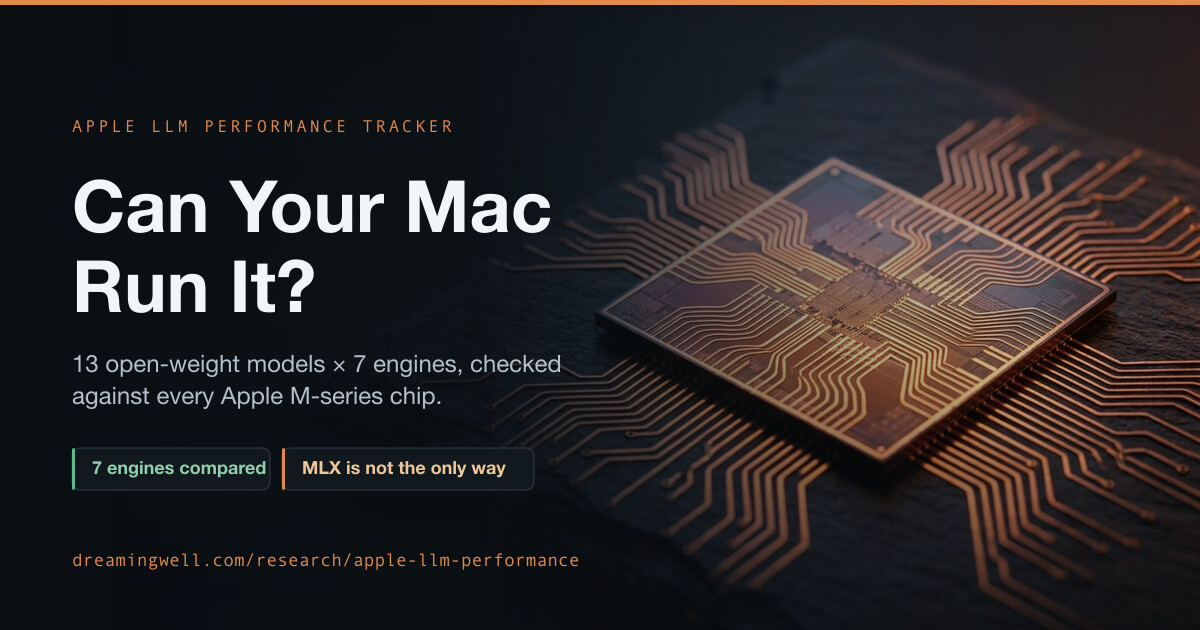
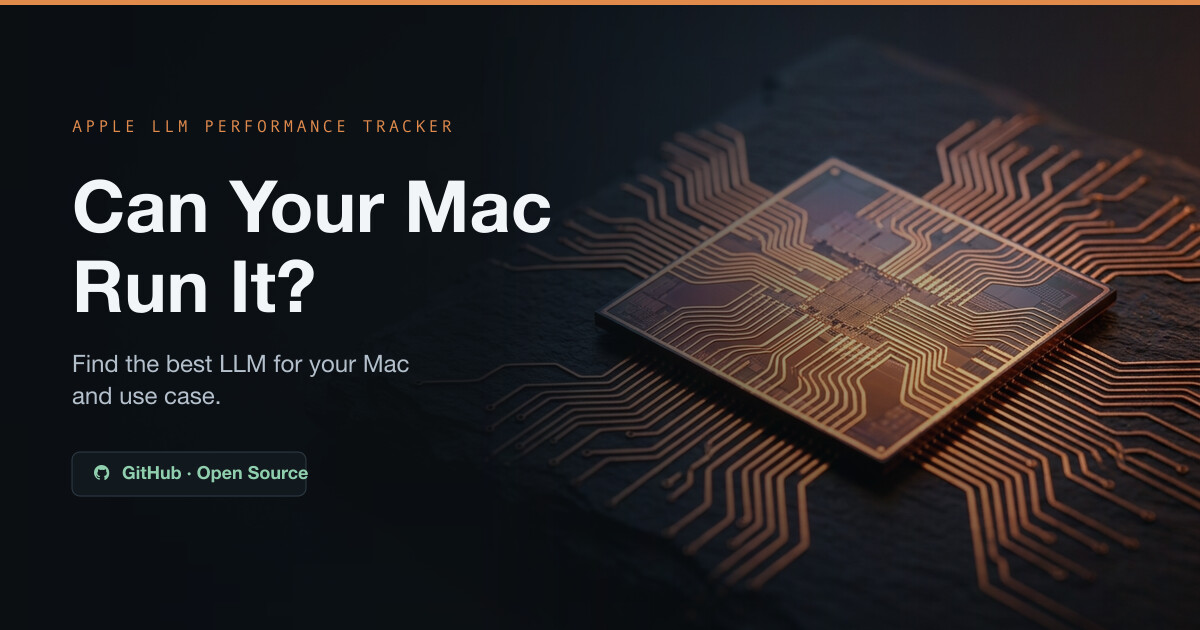
Make the Pages site canonical, add a GitHub badge, simplify the card
The repo is the home now, so the page's canonical, og:url and og:image point at
the Pages site rather than the dreamingwell.com mirror, and the header carries an
"Open source" badge linking back here. Both older dreamingwell.com routes
forward here in a single hop via tracker/make_redirect.py, carrying the query
string so shared deep links keep their cluster and use-case selections.

The social card no longer states model or engine counts - those change whenever a
model is added, and a card is cached far longer than it takes for them to go
stale. It now says what the page is for, and the URL is replaced by a GitHub
open-source badge.

Changed region(s): [[0.0617, 0.5429, 0.4625, 0.6635], [0.0617, 0.6937, 0.4317, 0.8143], [0.0617, 0.8746, 0.4933, 0.9048]]

diff --git a/tracker/render_status.py b/tracker/render_status.py
@@ -644,8 +644,8 @@ def render():
     doc = TEMPLATE.format(now=now, now_iso=now_iso, usecases=usecases, bands=bands,
                           cards="".join(cards), index=index_rows(rows),
                           cross=cross_tabs(rows, releases))
-    return doc.replace("/research/apple-llm-performance/card.jpg",
-                       "/research/apple-llm-performance/" + card_name())
+    return doc.replace("/apple-llm-performance/card.jpg",
+                       "/apple-llm-performance/" + card_name())
 
 
 TEMPLATE = """<title>Apple LLM Performance Tracker</title>
@@ -653,20 +653,20 @@ TEMPLATE = """<title>Apple LLM Performance Tracker</title>
 <meta name="description" content="Open weight AI models and their Apple M-series compatibility.">
 <meta property="og:type" content="website">
 <meta property="og:site_name" content="DreamingWell">
-<meta property="og:url" content="https://dreamingwell.com/research/apple-llm-performance/">
+<meta property="og:url" content="https://dreamingwell.github.io/apple-llm-performance/">
 <meta property="og:title" content="Apple LLM Performance Tracker">
 <meta property="og:description" content="Open weight AI models and their Apple M-series compatibility.">
-<meta property="og:image" content="https://dreamingwell.com/research/apple-llm-performance/card.jpg">
+<meta property="og:image" content="https://dreamingwell.github.io/apple-llm-performance/card.jpg">
 <meta property="og:image:type" content="image/jpeg">
 <meta property="og:image:width" content="1200">
 <meta property="og:image:height" content="630">
-<meta property="og:image:alt" content="Dark card over a glowing Apple Silicon die reading Can Your Mac Run It? - 13 open-weight AI models across 7 inference engines, checked against every Apple M-series chip. MLX is not the only way.">
+<meta property="og:image:alt" content="Dark card over a glowing Apple Silicon die reading Can Your Mac Run It? - find the best LLM for your Mac and use case. Open source on GitHub.">
 <meta name="twitter:card" content="summary_large_image">
 <meta name="twitter:title" content="Apple LLM Performance Tracker">
 <meta name="twitter:description" content="Open weight AI models and their Apple M-series compatibility.">
-<meta name="twitter:image" content="https://dreamingwell.com/research/apple-llm-performance/card.jpg">
-<meta name="twitter:image:alt" content="Dark card over a glowing Apple Silicon die reading Can Your Mac Run It? - 13 open-weight AI models across 7 inference engines, checked against every Apple M-series chip. MLX is not the only way.">
-<link rel="canonical" href="https://dreamingwell.com/research/apple-llm-performance/">
+<meta name="twitter:image" content="https://dreamingwell.github.io/apple-llm-performance/card.jpg">
+<meta name="twitter:image:alt" content="Dark card over a glowing Apple Silicon die reading Can Your Mac Run It? - find the best LLM for your Mac and use case. Open source on GitHub.">
+<link rel="canonical" href="https://dreamingwell.github.io/apple-llm-performance/">
 <link rel="preconnect" href="https://fonts.googleapis.com">
 <link rel="preconnect" href="https://fonts.gstatic.com" crossorigin>
 <link rel="stylesheet" href="https://fonts.googleapis.com/css2?family=IBM+Plex+Mono:wght@400;500;600&family=IBM+Plex+Sans:wght@400;500;600;700&display=swap">
@@ -873,6 +873,14 @@ TEMPLATE = """<title>Apple LLM Performance Tracker</title>
   .model-fit {{ margin: 0; font-family: "IBM Plex Mono", ui-monospace, monospace;
     font-size: .8rem; color: var(--ink-2); }}
   .model-fit.toolarge {{ color: var(--critical); }}
+  header {{ position: relative; }}
+  .gh {{ position: absolute; top: 0; right: 0; display: inline-flex; align-items: center;
+    gap: .4rem; text-decoration: none; color: var(--ink-2);
+    border: 1px solid var(--line); border-radius: 999px; padding: .3rem .7rem .3rem .6rem;
+    background: var(--surface); font-size: .78rem; font-weight: 500; }}
+  .gh:hover {{ color: var(--ink); border-color: var(--accent); }}
+  .gh svg {{ flex: none; }}
+  @media (max-width: 620px) {{ header {{ padding-top: 2.2rem; }} }}
   .sub-stamp {{ color: var(--muted); white-space: nowrap; }}
   .ix-eng {{ font-family: "IBM Plex Mono", ui-monospace, monospace; font-size: .72rem;
     color: var(--muted); white-space: nowrap; }}
@@ -1028,6 +1036,11 @@ TEMPLATE = """<title>Apple LLM Performance Tracker</title>
 
 <div class="wrap">
   <header>
+    <a class="gh" href="https://github.com/dreamingwell/apple-llm-performance"
+       target="_blank" rel="noopener" aria-label="Open source on GitHub">
+      <svg viewBox="0 0 16 16" width="15" height="15" aria-hidden="true" focusable="false"><path fill="currentColor" d="M8 0C3.58 0 0 3.58 0 8c0 3.54 2.29 6.53 5.47 7.59.4.07.55-.17.55-.38 0-.19-.01-.82-.01-1.49-2.01.37-2.53-.49-2.69-.94-.09-.23-.48-.94-.82-1.13-.28-.15-.68-.52-.01-.53.63-.01 1.08.58 1.23.82.72 1.21 1.87.87 2.33.66.07-.52.28-.87.51-1.07-1.78-.2-2.98-.88-2.98-2.9 0-.83.3-1.51.79-2.04-.08-.2-.35-1 .08-2.07 0 0 .65-.2 2.13.79a7.2 7.2 0 0 1 1.94-.26c.66 0 1.32.09 1.94.26 1.48-1 2.13-.79 2.13-.79.43 1.07.16 1.87.08 2.07.49.53.79 1.21.79 2.04 0 2.03-1.21 2.7-2.99 2.9.31.27.58.79.58 1.6 0 1.15-.01 2.09-.01 2.38 0 .21.15.46.55.38A7.99 7.99 0 0 0 16 8c0-4.42-3.58-8-8-8Z"/></svg>
+      <span>Open source</span>
+    </a>
     <span class="eyebrow">Top Tier Open Weight Models on Apple Silicon</span>
     <h1>Apple LLM Performance Tracker</h1>
     <p class="sub">Select your Mac CPU model, RAM, and machine count below. Then view what AI models

diff --git a/tracker/make_redirect.py b/tracker/make_redirect.py
@@ -1,0 +1,100 @@
+#!/usr/bin/env python3
+"""Emit a forwarding stub for a route that used to serve the tracker.
+
+    python3 tracker/make_redirect.py --from research/mlx-models [--card card-x.jpg]
+
+The canonical home is the GitHub Pages site. Two older addresses on
+dreamingwell.com still receive traffic and always will - `/research/mlx-models/`
+is the URL the original Reddit post used - so each serves a stub instead of a
+copy of the page.
+
+GitHub Pages cannot issue a 301, so the stub does the job four ways: a meta
+refresh for scrapers and no-JS clients, `rel=canonical` so search engines
+consolidate, Open Graph tags so a link preview still resolves, and a script that
+carries the query string across. That last part matters: the tracker encodes the
+selected chip, memory, machine count and use case in the query string, so
+dropping it would break every deep link anyone has shared.
+
+Every old route forwards straight to the Pages site rather than chaining through
+the other old route - one hop, not two.
+"""
+import argparse
+
+TARGET = "https://dreamingwell.github.io/apple-llm-performance/"
+TITLE = "Apple LLM Performance Tracker"
+DESC = "Open weight AI models and their Apple M-series compatibility."
+
+HTML = """<!doctype html>
+<html lang="en">
+<head>
+<meta charset="utf-8">
+<meta name="viewport" content="width=device-width, initial-scale=1">
+<title>{title}</title>
+<link rel="canonical" href="{target}">
+<meta http-equiv="refresh" content="0; url={target}">
+<meta name="description" content="{desc}">
+<meta property="og:type" content="website">
+<meta property="og:site_name" content="DreamingWell">
+<meta property="og:url" content="{target}">
+<meta property="og:title" content="{title}">
+<meta property="og:description" content="{desc}">
+<meta property="og:image" content="{target}{card}">
+<meta property="og:image:type" content="image/jpeg">
+<meta property="og:image:width" content="1200">
+<meta property="og:image:height" content="630">
+<meta name="twitter:card" content="summary_large_image">
+<meta name="twitter:title" content="{title}">
+<meta name="twitter:description" content="{desc}">
+<meta name="twitter:image" content="{target}{card}">
+<style>
+  :root {{ color-scheme: light dark; }}
+  body {{ margin: 0; min-height: 100vh; display: grid; place-items: center;
+    font: 400 1rem/1.6 "IBM Plex Sans", system-ui, -apple-system, sans-serif;
+    background: #eef1f5; color: #141a20; padding: 2rem; text-align: center; }}
+  .eyebrow {{ font-family: "IBM Plex Mono", ui-monospace, monospace; font-size: .7rem;
+    letter-spacing: .14em; text-transform: uppercase; color: #a85a26; }}
+  h1 {{ font-size: 1.4rem; margin: .6rem 0 .4rem; letter-spacing: -.02em; }}
+  p {{ margin: .3rem 0; }}
+  .muted {{ color: #5f6b78; font-size: .88rem; max-width: 34rem; }}
+  a {{ color: #a85a26; }}
+  @media (prefers-color-scheme: dark) {{
+    body {{ background: #0e1216; color: #e3e8ee; }}
+    .eyebrow, a {{ color: #de8a4c; }}
+    .muted {{ color: #8894a2; }}
+  }}
+</style>
+</head>
+<body>
+<main>
+  <span class="eyebrow">This page has moved</span>
+  <h1>{title}</h1>
+  <p><a id="go" href="{target}">{target}</a></p>
+  <p class="muted">It is open source now, so it lives with its repository. The old
+  <code>/{route}/</code> address still works and always will.</p>
+</main>
+<script>
+  (function () {{
+    var to = "{target}" + (location.search || "") + (location.hash || "");
+    var a = document.getElementById("go");
+    if (a) a.setAttribute("href", to);
+    location.replace(to);
+  }})();
+</script>
+</body>
+</html>
+"""
+
+
+def main():
+    ap = argparse.ArgumentParser()
+    ap.add_argument("--from", dest="route", required=True,
+                    help="the old route, e.g. research/mlx-models")
+    ap.add_argument("--card", default="card.jpg",
+                    help="card filename on the target site")
+    a = ap.parse_args()
+    print(HTML.format(target=TARGET, title=TITLE, desc=DESC,
+                      route=a.route.strip("/"), card=a.card), end="")
+
+
+if __name__ == "__main__":
+    main()

diff --git a/README.md b/README.md
@@ -159,13 +159,16 @@ to spend money on.
 If you have measured something on real hardware, that is the most valuable kind
 of contribution — see [CONTRIBUTING.md](CONTRIBUTING.md).
 
-## Mirror
+## Older addresses
 
-The page is also published at
-https://dreamingwell.com/research/apple-llm-performance/ , which is the
-canonical URL in the page metadata. `/research/mlx-models/` forwards there,
-carrying the query string, because that is the address the original Reddit post
-used.
+This repo's Pages site is canonical. Two earlier addresses on dreamingwell.com
+still receive traffic and forward here in a single hop, carrying the query string
+so shared deep links keep their selections:
+
+- `/research/apple-llm-performance/`
+- `/research/mlx-models/` — the address the original Reddit post used
+
+`tracker/make_redirect.py` generates those stubs.
 
 ## Licence
 
